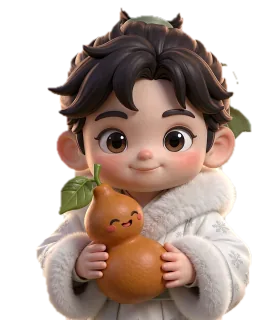
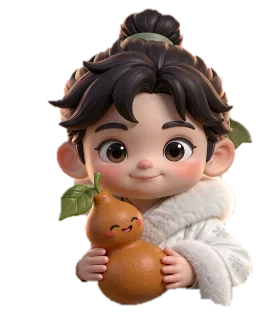
v127: 修复经典/冬季待机图头顶发髻裁切(比例与其他三季协调);互动动图重做使葫芦不变形;四季各用自身形象生成专属60帧动图(春绿衣粉花/夏浅绿/秋橙金/冬白毛绒),按需加载点击零跳变

diff --git a/common.js b/common.js
@@ -1846,17 +1846,16 @@ function go(p){location.href=(p==="home"?"index":p)+".html";}
 
 /* ===== 小药童：经典 + 春夏秋冬四季换装（AI 换装静图，点击互动共用经典动作） ===== */
 (function(){
-  /* 五套装束：经典为初见默认；四季是 AI 换装静图，裁成与经典相同的 269×320 半身构图，
-     显示位置 / 大小 / 头身比与原经典药童一致。v119 起删除四季各自的 60 帧动作图，
-     点击互动统一复用经典动作图 mascot-anim.webp —— 全站只剩一段动作，彻底消除换肤卡顿。 */
+  /* 五套装束：经典为初见默认；四季是 AI 换装图，裁成与经典相同的 269×320 半身构图，
+     显示位置 / 大小 / 头身比一致。v127 起五套各有自己的 60 帧互动动图（各自形象、葫芦不变形），
+     各自动作按需加载，点击时播放对应装束的专属动作。 */
   const SKINS={
-    classic:{idle:"assets/mascot-idle.webp",   name:"经典",      season:null},
-    spring: {idle:"assets/skin-spring-idle.webp", name:"春 · 发陈", season:"春"},
-    summer: {idle:"assets/skin-summer-idle.webp", name:"夏 · 蕃秀", season:"夏"},
-    autumn: {idle:"assets/skin-autumn-idle.webp", name:"秋 · 容平", season:"秋"},
-    winter: {idle:"assets/skin-winter-idle.webp", name:"冬 · 闭藏", season:"冬"}
+    classic:{idle:"assets/mascot-idle.webp",   act:"assets/mascot-anim.webp",        name:"经典",      season:null},
+    spring: {idle:"assets/skin-spring-idle.webp",act:"assets/skin-spring-act.webp", name:"春 · 发陈", season:"春"},
+    summer: {idle:"assets/skin-summer-idle.webp",act:"assets/skin-summer-act.webp", name:"夏 · 蕃秀", season:"夏"},
+    autumn: {idle:"assets/skin-autumn-idle.webp",act:"assets/skin-autumn-act.webp", name:"秋 · 容平", season:"秋"},
+    winter: {idle:"assets/skin-winter-idle.webp",act:"assets/skin-winter-act.webp", name:"冬 · 闭藏", season:"冬"}
   };
-  const ACT_SRC="assets/mascot-anim.webp"; // 唯一动作素材：经典动图，五套共用
   const ACT_MS=5100; // 60帧×83ms≈5s，留一点余量
   const TIPS=[
     "上工治未病，不治已病。——《黄帝内经》",
@@ -1877,17 +1876,22 @@ function go(p){location.href=(p==="home"?"index":p)+".html";}
     winter:["冬宜早卧晚起，必待日光，使志若伏若匿，勿扰乎阳。","冬主闭藏，围炉读《伤寒论》，最合「藏」字。","寒从脚下起，睡前温水泡脚，水温 40 度刚刚好。","进补须辨体质，阳虚宜温、阴虚宜润，一概峻补反而伤正。"]
   };
   const img=$("#mascot"),bubble=$("#mascotBubble"),hint=$("#mascotHint");
-  if(!img)return;
   let acting=false,actTimer=null,tipTimer,hintShown=false,tipSkin=null,curSkin="classic";
-  /* v119 卡顿治理：四张换装静图各约 10KB，进页即全部预载 → 换肤零等待、无白闪；
-     经典动作图 516KB 在首屏渲染后空闲预载一次，全站共用，点击时已就绪。
-     不再有「悬停即拉 1MB 四季动作图」与「点击解码 60 帧」的双重卡顿。 */
+  /* v127：四季各有自己的 60 帧互动动图（约 0.5-0.6MB），按需加载：
+     进页只预载 5 张静图，动作图在悬停/首次点击该皮肤时才拉取，避免首屏带宽压力。 */
   function preloadMascotAssets(){
     Object.keys(SKINS).forEach(k=>{const p=new Image();p.src=SKINS[k].idle;});
-    const a=new Image();a.src=ACT_SRC;
   }
   if(window.requestIdleCallback)requestIdleCallback(preloadMascotAssets,{timeout:1500});
   else setTimeout(preloadMascotAssets,900);
+  const actLoaded={};
+  function preloadSkinAct(key){
+    if(actLoaded[key])return;
+    actLoaded[key]=true;
+    const pre=new Image();pre.src=SKINS[key].act;
+  }
+  function preloadAct(){preloadSkinAct(curSkin);}
+  if(img){img.addEventListener("pointerenter",preloadAct,{once:true});img.addEventListener("touchstart",preloadAct,{once:true});}
 
   /* 经典 = 一键复原：药童回经典装，页面主色 / 飘落物 / 插画 / 荐读回到当令真实节气 */
   function restoreSeason(){
@@ -1944,9 +1948,10 @@ function go(p){location.href=(p==="home"?"index":p)+".html";}
   }
   function act(auto){
     if(acting)return;
+    preloadSkinAct(curSkin);
     acting=true;
     img.classList.add("acting");
-    img.src=ACT_SRC; // v119：五套互动统一复用经典动作图，不再各自加载 1MB 专属动图
+    img.src=SKINS[curSkin].act; // v127：每套播放自己的专属互动动图（形象一致、葫芦不变形）
     showTip();
     if(!hintShown){hint.classList.add("hide");hintShown=true;}
     actTimer=setTimeout(()=>{
